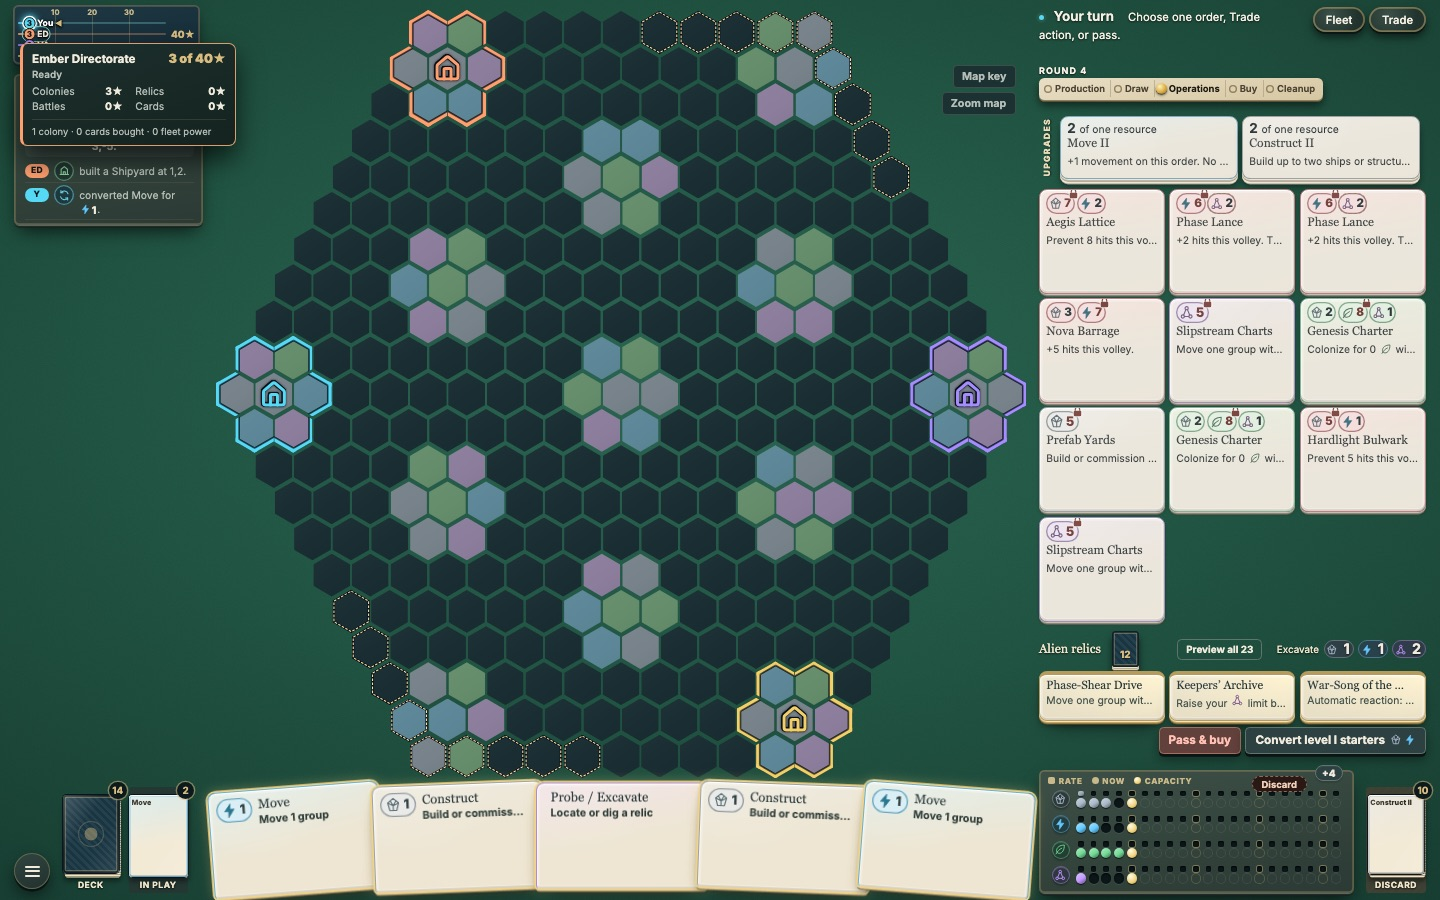
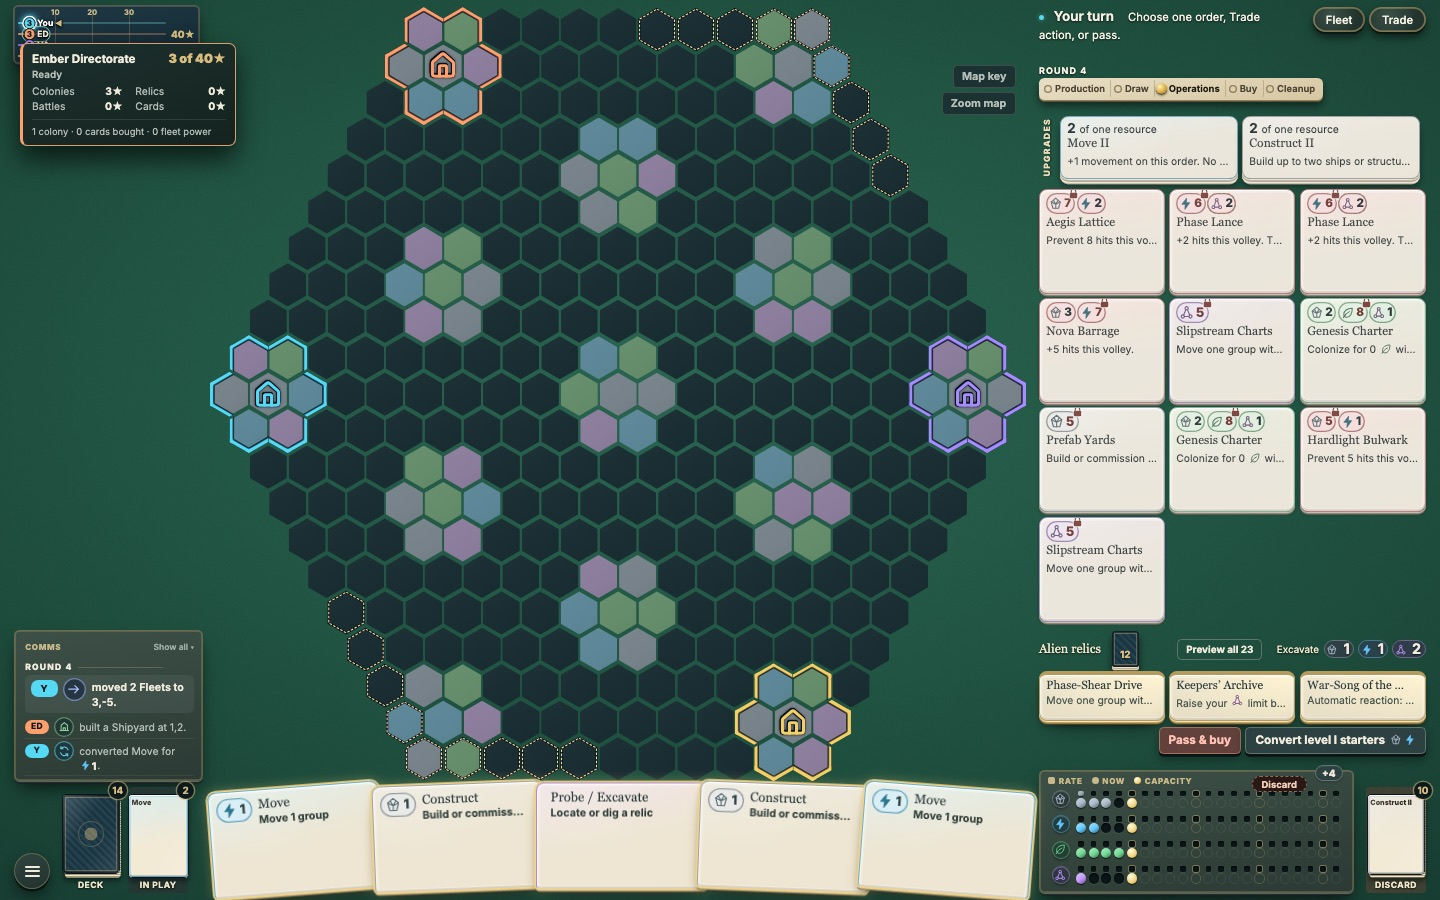
The map fills the space the other pieces leave: on a landscape table it reaches into the left strip, clear of the Prestige track, the notice spot and the comms card in its corners

diff --git a/prototypes/galactic-reach/rulebook.html b/prototypes/galactic-reach/rulebook.html
@@ -123,7 +123,7 @@
 
       <section id="movement">
         <h2>05 / Exploration &amp; movement</h2>
-        <p id="shared-board">Read shared table information around the board: on a desktop window, the whole window is one table, scaled as a whole to fit; the standings are the race to the Prestige goal, a small printed track by the map’s top-left corner with one lane per faction and its marker at its current score (the acting faction’s marker glows, with an arrow; point at or focus a marker for an overview of that faction’s Prestige sources, colonies, cards bought and fleet power, or select it for the breakdown; on a phone the track is the <strong>Table</strong> drawer); the comms feed lies below it as a small card of the latest three entries, printed like your player mat; select it to open the whole feed, and again (or press Escape) to close it (each entry shows who acted, a symbol for the kind of event and its resource and Prestige amounts; point at an entry for the full sentence); the map itself is as large as the window allows; and to its right are the turn prompt and the round’s phases, with <strong>Fleet</strong> and <strong>Trade</strong>, then the supply, all visible together: the <strong>Upgrades</strong> tray (with <strong>Trash a card</strong> beside it during Buy), the ten market cards and the face-up alien relics. <strong>Fleet</strong> opens over the supply. The game’s title, rules, card gallery, new game, Undo and playtest notes open from the menu button in the bottom-left corner. The market shows its cards as compact card tops (point at one to read it in full; choose it to buy), and cards you can buy now are outlined in gold. <strong>Trade</strong> opens the trade channel in its own window. Card frames take the colour of the resource a card works with (gold for capacity, Buy and Prestige cards, red for military and attack cards); the map key shows them. Select a Prestige marker to inspect its breakdown; the scoring reference is in <a href="#victory">Victory</a>. On a narrow screen, these panels reflow inside the board frame; scroll the map to reach other hexes. The recent-action feed can say that Probe was used, but never gives its private relic location. Your hand, card piles, reserves, and full game-report download stay on your player mat. The report can include private information.</p>
+        <p id="shared-board">Read shared table information around the board: on a desktop window, the whole window is one table, scaled as a whole to fit; the standings are the race to the Prestige goal, a small printed track by the map’s top-left corner with one lane per faction and its marker at its current score (the acting faction’s marker glows, with an arrow; point at or focus a marker for an overview of that faction’s Prestige sources, colonies, cards bought and fleet power, or select it for the breakdown; on a phone the track is the <strong>Table</strong> drawer); the comms feed lies in the bottom-left corner as a small card of the latest three entries, printed like your player mat; select it to open the whole feed, and again (or press Escape) to close it (each entry shows who acted, a symbol for the kind of event and its resource and Prestige amounts; point at an entry for the full sentence); the map itself fills all the space the other pieces leave, reaching into the corners around the track and the comms card; and to its right are the turn prompt and the round’s phases, with <strong>Fleet</strong> and <strong>Trade</strong>, then the supply, all visible together: the <strong>Upgrades</strong> tray (with <strong>Trash a card</strong> beside it during Buy), the ten market cards and the face-up alien relics. <strong>Fleet</strong> opens over the supply. The game’s title, rules, card gallery, new game, Undo and playtest notes open from the menu button in the bottom-left corner. The market shows its cards as compact card tops (point at one to read it in full; choose it to buy), and cards you can buy now are outlined in gold. <strong>Trade</strong> opens the trade channel in its own window. Card frames take the colour of the resource a card works with (gold for capacity, Buy and Prestige cards, red for military and attack cards); the map key shows them. Select a Prestige marker to inspect its breakdown; the scoring reference is in <a href="#victory">Victory</a>. On a narrow screen, these panels reflow inside the board frame; scroll the map to reach other hexes. The recent-action feed can say that Probe was used, but never gives its private relic location. Your hand, card piles, reserves, and full game-report download stay on your player mat. The report can include private information.</p>
         <p id="keyboard-controls">Use <strong>Tab</strong> to reach controls and <strong>Enter</strong> or <strong>Space</strong> to activate them. The first link skips straight to player controls. Use arrow keys, Home, or End to switch the player-control tabs. Escape closes inspectors and reference windows. Combat and excess-resource choices stay open until you make the required choice.</p>
         <div class="book-legend" role="group" aria-label="Map symbols"><span><b class="relic-mark" aria-hidden="true">◈</b> Located relic</span><span><b class="relic-mark" aria-hidden="true">●</b> Gray moon · no production</span></div>
         <p>World terrain is always public, but seeing a world does not locate its relic. Any Settler, Fleet, or Explorer ending a move surveys that world or moon, revealing its terrain to everyone. Arrival never locates a relic. Use <strong>Probe</strong> from your Explorer’s current hex to locate the nearest remaining relic you have not already discovered, even on an unvisited world or hidden moon. Known sites are skipped. When you locate the last unknown site, a message tells you that all remaining relics are discovered. If all remaining sites are already known to you, Probe warns you without spending the card or your action. You do not need to reach that world or moon first. A signal on an undiscovered moon reveals the relic’s hex to you without revealing the moon’s terrain. Other players must locate it for themselves. Existing discovery relic cards keep their printed effects. Probe and Chorus signals stay private after later terrain surveys. Only an effect that explicitly reveals relics to everyone makes them public. All players’ units remain visible, including in empty space. Unit markers alone do not reveal a hidden moon or relic.</p>

diff --git a/prototypes/galactic-reach/app.js b/prototypes/galactic-reach/app.js
@@ -4468,6 +4468,7 @@ function createGalacticReach(options = {}) {
     // Each part of the table draws on its own: one failing part must never blank the market,
     // the relics or the turn's buttons. Failures are logged, shown once, and fail the checks.
     drawEach({renderHeader, renderScoreboard, renderBoard, renderResources, renderInspector, positionSectorScan, renderLog, renderHand, renderMarket, renderFleetSummary, renderTrade, renderRelicRow, renderOverflow, renderCombat, renderCombatReport, renderBoardPrimary});
+    drawEach({fitMap});
     drawEach({ 'card feel': () => cardFeel?.rendered?.(cardFeelView()), drawers: followTurnWithDrawer });
   }
 
@@ -4674,6 +4675,43 @@ function createGalacticReach(options = {}) {
     }
   }
 
+  // The map fills the space the other pieces leave: on a landscape table it may reach into the
+  // left strip, as long as no hex runs under the Prestige track, the notice spot below it, the
+  // comms card or the map tools, which lie in the hexagon's empty corners. Hex positions scale
+  // with the map's width, so they are measured once and the largest width that clears every
+  // corner piece is found by bisection.
+  let fitMapLog = null;
+  function fitMap() {
+    if (typeof document === 'undefined' || !document.documentElement?.style) return;
+    const root = document.documentElement, region = $('.board-map-region'), board = $('#galaxy-board');
+    const landscape = tableLayout() && window.matchMedia?.('(orientation: landscape)').matches && !$('.board-stage.map-zoomed');
+    if (!landscape || !region?.getBoundingClientRect || !board) { root.style.removeProperty('--map-w'); return; }
+    const zoom = Number(root.style.getPropertyValue('--table-zoom')) || 1;
+    const box = region.getBoundingClientRect(), b = board.getBoundingClientRect();
+    if (!b.width || !box.width) return;
+    const hexes = [...board.querySelectorAll('.hex')].map(hex => { const r = hex.getBoundingClientRect(); return [(r.left - b.left) / b.width, (r.top - b.top) / b.width, (r.right - b.left) / b.width, (r.bottom - b.top) / b.width]; });
+    const ratio = b.height / b.width, gap = 6 * zoom;
+    const rect = (element, [l, t, r, bottom] = [0, 0, 0, 0]) => { const e = element?.getBoundingClientRect?.(); return e && e.width ? [e.left - l * zoom, e.top - t * zoom, e.right + r * zoom, e.bottom + bottom * zoom] : null; };
+    const track = rect($('#prestige-track'), [6, 4, 38, 5]);
+    // The notice spot under the track (see .toast), kept clear so a notice never lies on a hex.
+    const notice = track && [16 * zoom, track[3] + 8 * zoom, (16 + 196) * zoom, track[3] + 170 * zoom];
+    // An open comms log lies over the map on purpose; the map keeps clear of the closed card.
+    if (!$('.log-panel.open')) fitMapLog = rect($('.log-panel'));
+    const log = fitMapLog;
+    const blocks = [track, notice, log, rect($('.map-tools'))].filter(Boolean);
+    const fits = width => {
+      const height = width * ratio, left = box.right - width, top = box.top + (box.height - height) / 2;
+      return hexes.every(([l, t, r, bottom]) => blocks.every(([bl, bt, br, bb]) => left + r * width <= bl - gap || left + l * width >= br + gap || top + bottom * width <= bt - gap || top + t * width >= bb + gap));
+    };
+    let high = Math.min(box.width, box.height / ratio), low = high * .4;
+    if (!fits(high)) {
+      if (!fits(low)) { root.style.removeProperty('--map-w'); return; }
+      for (let step = 0; step < 14; step++) { const mid = (low + high) / 2; if (fits(mid)) low = mid; else high = mid; }
+      high = low;
+    }
+    root.style.setProperty('--map-w', `${Math.floor(high / zoom)}px`);
+  }
+
   // On a desktop window the market and relics lie on the table together; Fleet opens over them.
   const tableLayout = () => typeof window !== 'undefined' && !!window.matchMedia?.('(min-width: 600px) and (min-height: 600px)').matches;
   function switchTab(name) {
@@ -4762,11 +4800,12 @@ function createGalacticReach(options = {}) {
     window.addEventListener('resize',positionSectorScan);
     fitTable();
     window.addEventListener('resize',fitTable);
+    window.addEventListener('resize',fitMap);
     document.addEventListener('scroll',event=>{if(!$('#sector-popover').contains(event.target))positionSectorScan();},true);
     $('#open-map-key').addEventListener('click',()=>$('#map-key-dialog').showModal());
     $('#close-map-key').addEventListener('click',()=>$('#map-key-dialog').close());
     $('#map-zoom').addEventListener('click',()=>{
-      const stage=$('.board-stage'); const zoomed=stage.classList.toggle('map-zoomed');
+      const stage=$('.board-stage'); const zoomed=stage.classList.toggle('map-zoomed'); fitMap();
       $('#map-zoom').textContent=zoomed?'Fit map':'Zoom map';
       $('#map-zoom').setAttribute('aria-pressed',String(zoomed));
       if (zoomed) {

diff --git a/prototypes/galactic-reach/styles.css b/prototypes/galactic-reach/styles.css
@@ -2451,3 +2451,12 @@ html { -webkit-text-size-adjust: 100%; text-size-adjust: 100%; }
   .log-panel.open { z-index: 30 !important; }
   .log-panel.open .game-log .log-text { display: block; -webkit-line-clamp: none; line-clamp: none; overflow: visible; }
 }
+
+/* ==== The map fills the space the other pieces leave (see fitMap): on a landscape table it may
+   reach into the left strip, with the Prestige track and a notice spot in its top-left corner and
+   the comms card in its bottom-left corner. ==== */
+@media (min-width: 600px) and (min-height: 600px) and (orientation: landscape) {
+  .galaxy-board, .has-saved-table .galaxy-board, .has-replay .galaxy-board { width: var(--map-w, min(100cqw, 100cqh * 1.0543, var(--board-w))) !important; }
+  .log-panel:not(.open) { align-self: end !important; }
+  .toast { top: calc(80px * var(--table-zoom, 1)); bottom: auto; left: calc(16px * var(--table-zoom, 1)); }
+}

diff --git a/changes/gr-no-scroll-ui-u1.md b/changes/gr-no-scroll-ui-u1.md
@@ -3,4 +3,4 @@ compat: safe
 title: A real table that fits your window
 pr: 53
 ---
-On a desktop window the game no longer scrolls: the whole window is one table, scaled as a whole to fit. The map is as large as the window allows. By its top-left corner a small printed track races every faction to the Prestige goal (the acting faction's marker glows; point at a marker for that faction's overview, select it for the breakdown), with a small comms card below it that opens into the whole log. The turn and round and the whole supply at once (an Upgrades tray, the market and the alien relics) lie to the right, and your seat runs along the bottom: Deck and In play, your hand, a player mat of pips (no numbers) for production, stock and a gold capacity fence, and Discard with the turn's buttons. Drag 4 of one resource onto another on your mat to trade with the bank ([Player mat](rulebook.html#player-mat)). Cards look like printed card stock in a slight fan; point at one to read it whole, drag it onto a lit hex to play it or onto your mat to convert it. Market prices sit in each card's corner with a padlock on any resource above your limit, cards you can't buy yet are shaded with the reason ([Buy](rulebook.html#buy)), and held planets are ringed and buildings drawn in their owner's colour ([Reading ownership](rulebook.html#ownership-colours)). iPads get the same table, and phones a full-screen map with the hand, supply, mat, comms and track in drawers.
+On a desktop window the game no longer scrolls: the whole window is one table, scaled as a whole to fit. The map fills all the space the other pieces leave, in any window shape. In its top-left corner a small printed track races every faction to the Prestige goal (the acting faction's marker glows; point at a marker for that faction's overview, select it for the breakdown), and in its bottom-left corner a small comms card opens into the whole log. The turn and round and the whole supply at once (an Upgrades tray, the market and the alien relics) lie to the right, and your seat runs along the bottom: Deck and In play, your hand, a player mat of pips (no numbers) for production, stock and a gold capacity fence, and Discard with the turn's buttons. Drag 4 of one resource onto another on your mat to trade with the bank ([Player mat](rulebook.html#player-mat)). Cards look like printed card stock in a slight fan; point at one to read it whole, drag it onto a lit hex to play it or onto your mat to convert it. Market prices sit in each card's corner with a padlock on any resource above your limit, cards you can't buy yet are shaded with the reason ([Buy](rulebook.html#buy)), and held planets are ringed and buildings drawn in their owner's colour ([Reading ownership](rulebook.html#ownership-colours)). iPads get the same table, and phones a full-screen map with the hand, supply, mat, comms and track in drawers.
